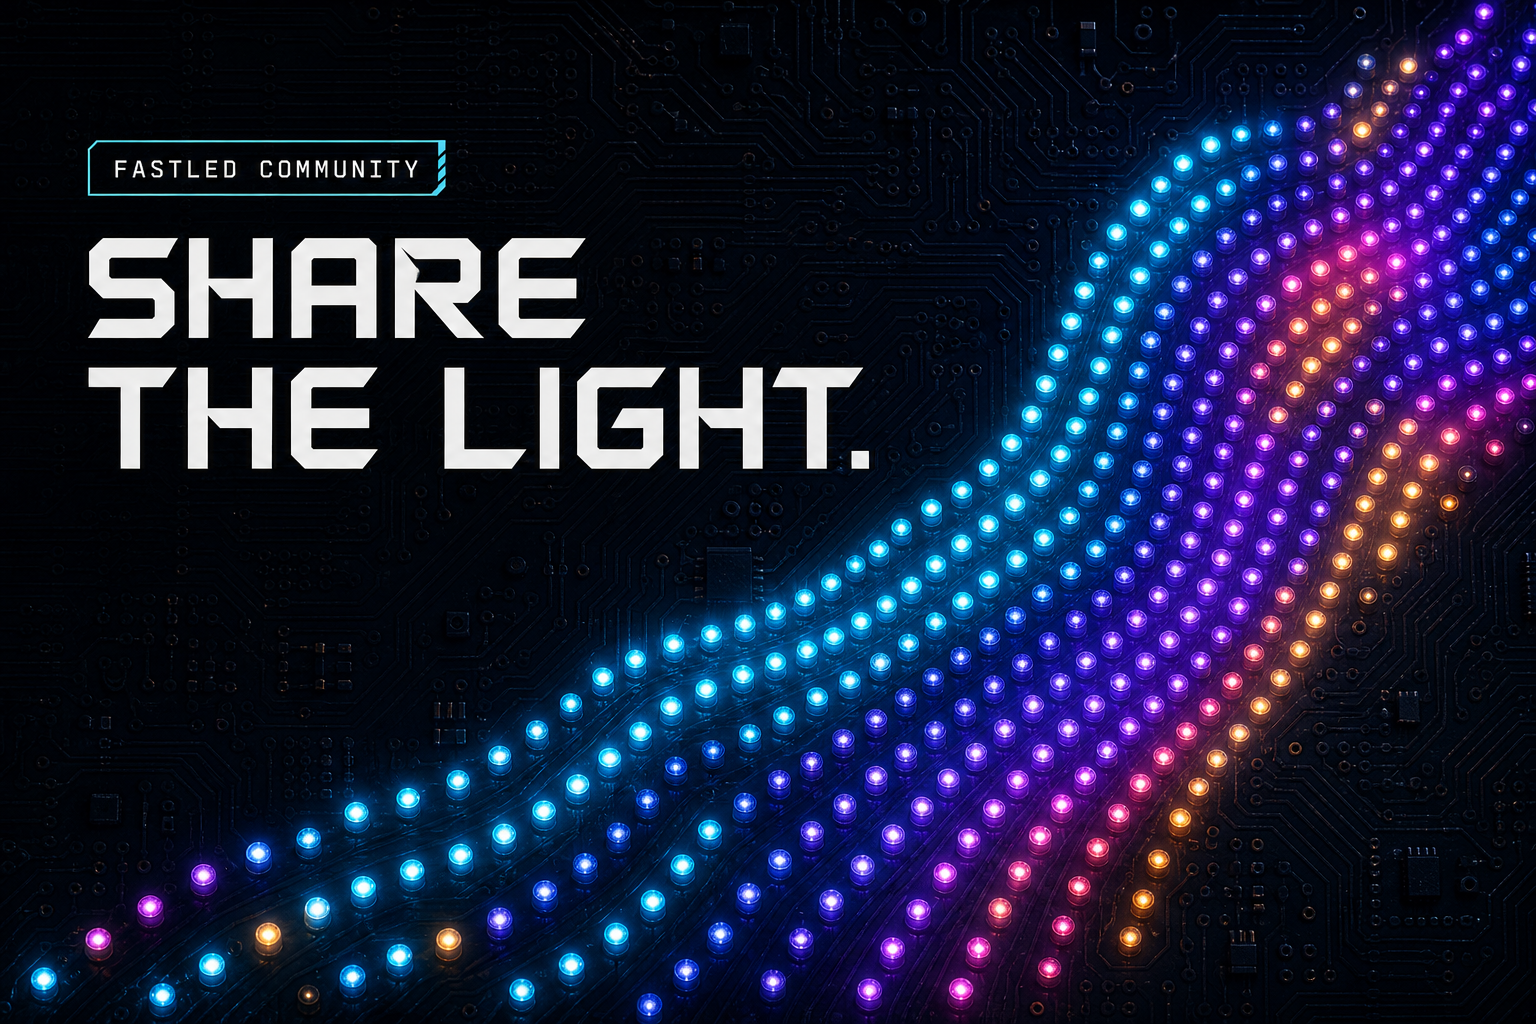
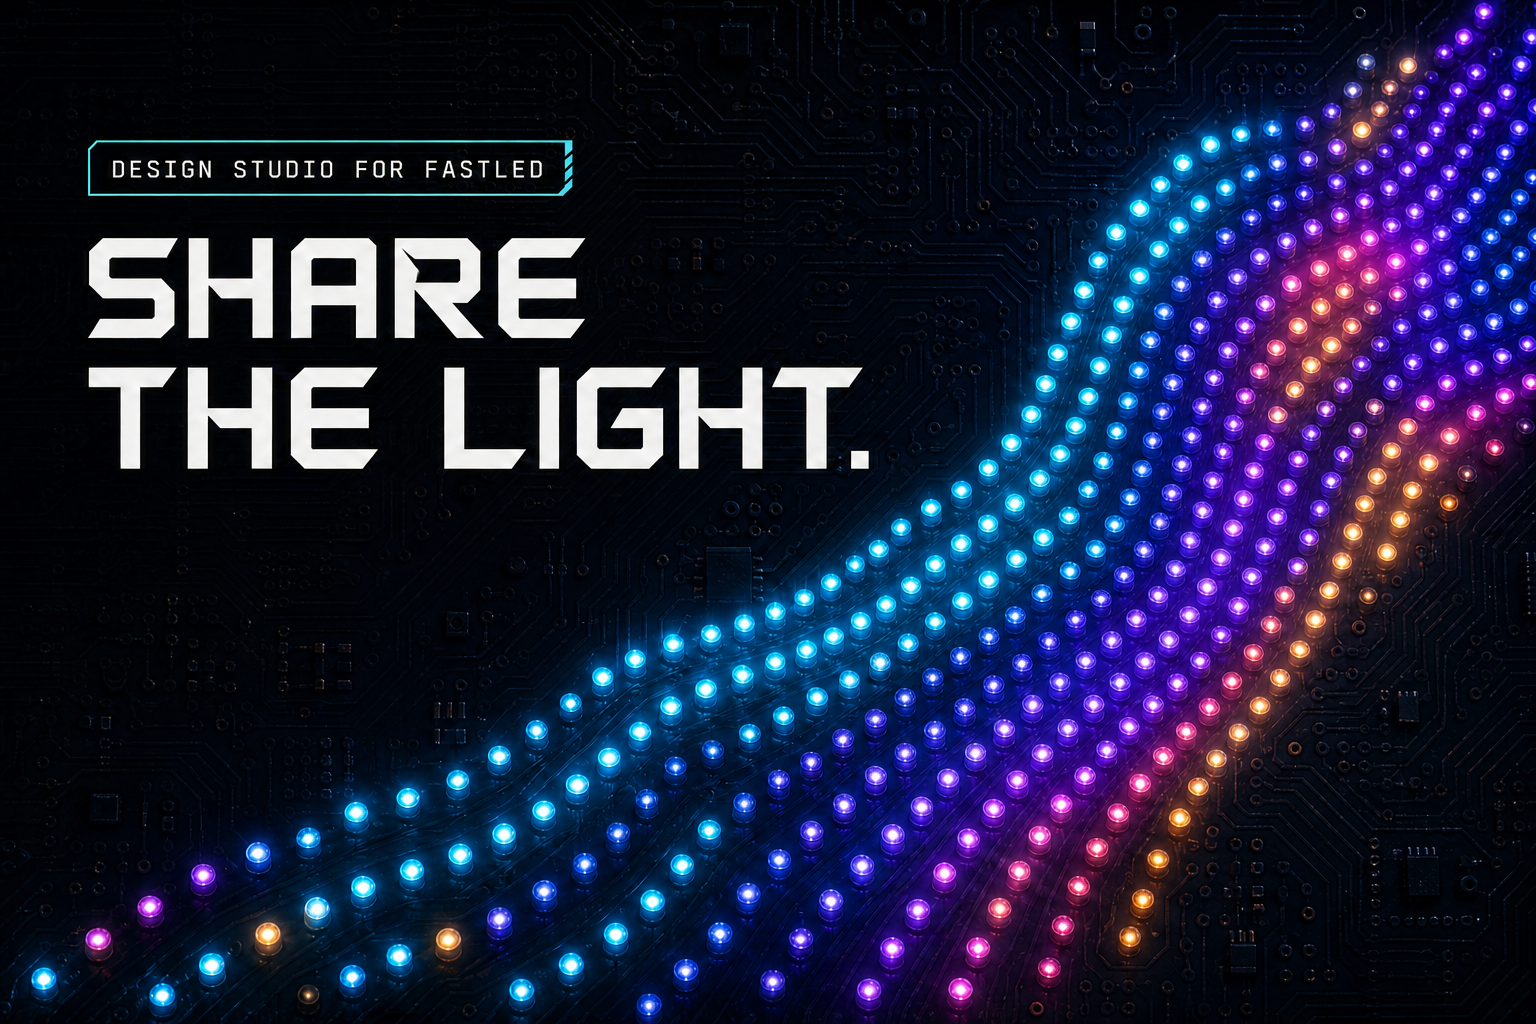
Rename site to Design Studio for FastLED

diff --git a/src/app/layout.tsx b/src/app/layout.tsx
@@ -8,13 +8,13 @@ const mono = IBM_Plex_Mono({ subsets: ["latin"], weight: ["400", "500", "600"], 
 
 export const metadata: Metadata = {
   metadataBase: new URL(process.env.NEXT_PUBLIC_SITE_URL ?? "https://designstudioforfastled.com"),
-  title: { default: "FastLED Community — Patterns made to travel", template: "%s · FastLED Community" },
-  description: "Publish, discover, and remix LED patterns built by the FastLED community.",
+  title: { default: "Design Studio for FastLED — Patterns made to travel", template: "%s · Design Studio for FastLED" },
+  description: "Publish, discover, and remix LED patterns built by makers using FastLED.",
   openGraph: {
     type: "website",
-    title: "FastLED Community — Share the light",
+    title: "Design Studio for FastLED — Share the light",
     description: "Patterns, hardware notes, and useful starting points for LED makers.",
-    images: [{ url: "/og.png", width: 1536, height: 1024, alt: "FastLED Community pattern gallery" }],
+    images: [{ url: "/og.png", width: 1536, height: 1024, alt: "Design Studio for FastLED pattern gallery" }],
   },
   twitter: { card: "summary_large_image", images: ["/og.png"] },
 };

diff --git a/src/components/site-header.tsx b/src/components/site-header.tsx
@@ -5,10 +5,10 @@ import { BrandMark } from "./brand-mark";
 export function SiteHeader() {
   return (
     <header className="site-header">
-      <Link className="brand" href="/" aria-label="FastLED Community home">
+      <Link className="brand" href="/" aria-label="Design Studio for FastLED home">
         <BrandMark />
-        <span>FastLED</span>
-        <em>community</em>
+        <span>Design Studio</span>
+        <em>for FastLED</em>
       </Link>
       <nav className="site-nav" aria-label="Main navigation">
         <Link href="/patterns">Patterns</Link>

diff --git a/src/app/page.tsx b/src/app/page.tsx
@@ -13,7 +13,7 @@ export default function Home() {
       <main>
         <section className="hero shell">
           <div className="hero-copy">
-            <p className="eyebrow"><span /> Built for the FastLED community</p>
+            <p className="eyebrow"><span /> Patterns for FastLED makers</p>
             <h1>Share the light.<br /><em>Ship better patterns.</em></h1>
             <p className="hero-intro">
               A home for LED makers to publish, remix, and learn from patterns that already work in the real world.

diff --git a/src/app/login/page.tsx b/src/app/login/page.tsx
@@ -5,7 +5,7 @@ import { SiteHeader } from "@/components/site-header";
 
 export const metadata: Metadata = {
   title: "Log in",
-  description: "Log in to share and manage FastLED community patterns.",
+  description: "Log in to share and manage patterns in Design Studio for FastLED.",
 };
 
 export default function LoginPage() {

diff --git a/docs/SETUP.md b/docs/SETUP.md
@@ -1,4 +1,4 @@
-# Community site setup
+# Design Studio for FastLED setup
 
 This project is intentionally separate from the Design Studio application. It owns only the public community experience, member authentication, shared pattern metadata, and pattern-file uploads.
 
@@ -22,7 +22,7 @@ The homepage and gallery use curated starter content until Supabase is configure
 
 ## 2. Supabase
 
-1. Create a Supabase project.
+1. Open the existing `Design-Studio-for-FastLED` Supabase project.
 2. Open the SQL editor and run `supabase/migrations/202608030001_initial_community_schema.sql`.
 3. In **Project settings → API**, copy the project URL and publishable key into `.env.local`.
 4. In **Authentication → URL configuration**, add:

diff --git a/README.md b/README.md
@@ -1,6 +1,6 @@
-# FastLED Community
+# Design Studio for FastLED
 
-A standalone community website for publishing, discovering, and remixing FastLED patterns. This repository is deliberately separate from the Design Studio application.
+A standalone community website for publishing, discovering, and remixing FastLED patterns. This repository is deliberately separate from the Design Studio application codebase.
 
 ## Included
 
